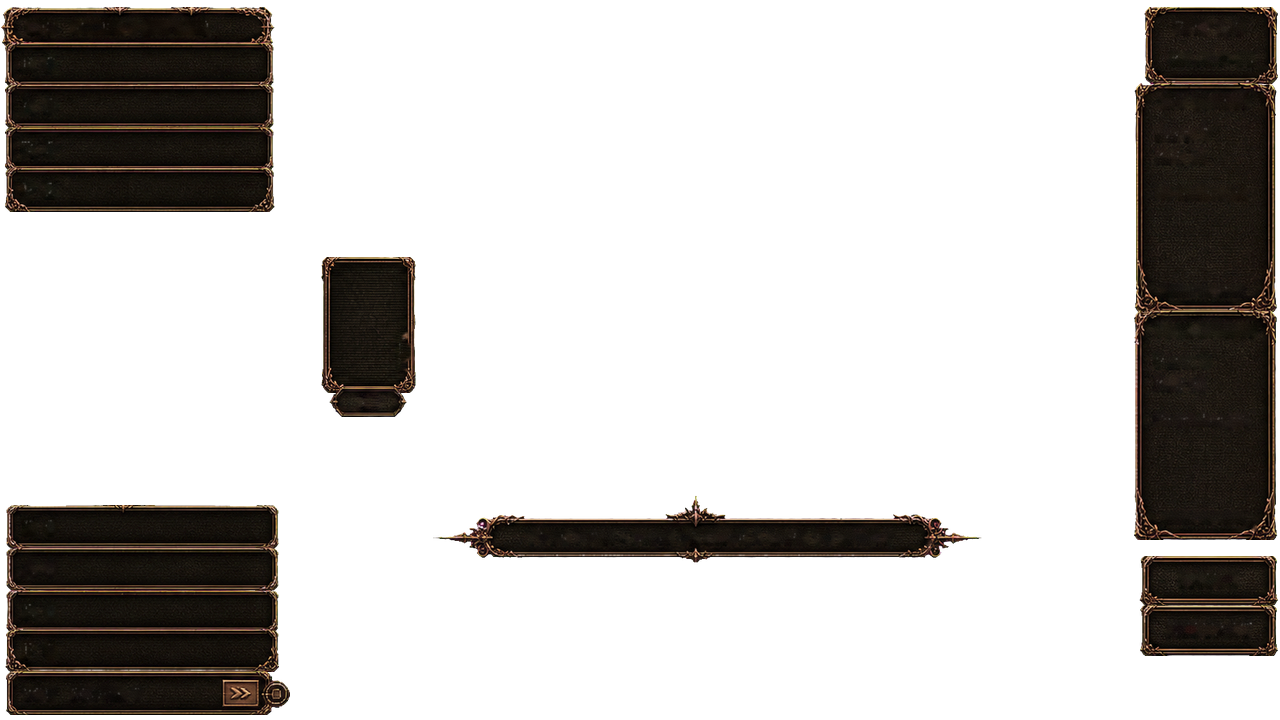
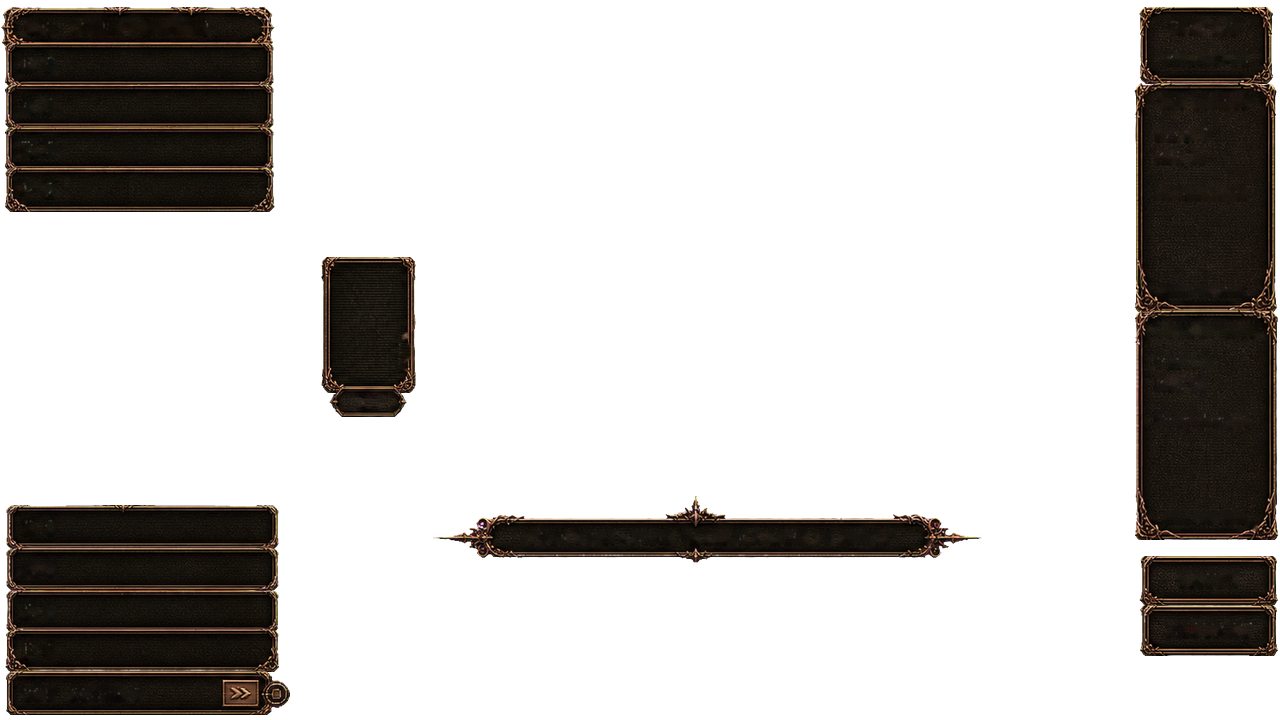
castle: live-test #3 fine-tune - deeper bezel grip, tower centre axis
Owner re-test (tables/table_castle/live-test.md #3):

1. Card still read as sitting ON the bezel: at cavity height ~ card height
   (x0.99) the top/bottom rails overlap the card by <1 px. The card now sits
   IN the sandwich: CASTLE_BEZEL_RATIO 0.99 -> 0.94, so the bronze band lies
   mostly over the card on every side (lip ~5 px at hand size, proportional
   elsewhere) while the frame silhouette stays just proud of the card
   (ratio floor ~0.927). Comparison: preview/castle-bezel-grip.png.
2. RND box still offset right - it was the box, not the text. Outer-right
   placement put the narrower RND cavity's centre ~5 px right of the combo
   panels' axis inside one contiguous tower. The assert record now aligns
   the rnd+combos tower on cavity cx 1205.3 (rnd moves 5.4 px left; combos
   <=0.2 px; buttons keep outer-right - separate island, labels game-centred);
   finals + overlay rebuilt, and the mode lines centre on 1205.3 to match.

Also fixes a stale pass-1 paragraph in the castle README (table_art builds
the manifest now; it no longer refuses it).

Verified: ./build.sh test green, action_guard exit 0, all src/*.c
warning-free vs raylib 5.5 headers; bezel asset byte-identical (code-only
ratio change), overlay regenerated.

diff --git a/src/ui_combos.c b/src/ui_combos.c
@@ -55,17 +55,17 @@ void combos_draw_sidebar(const GameState *g) {
         DrawRectangleRec(mode, COLOR_PANEL_BG);
         ui_draw_panel_border(mode, COLOR_PHOSPHOR_DIM);
     }
-    /* Castle: the mode cavity measures x 1151.7..1269.7 (tables/table_castle/final/
-       _manifest.json, rnd_panel), so text left-aligned at 1168 leaves a wide empty
-       leather margin on its left and reads shifted right - centre the two mode lines
-       on the cavity (cx ~1211) instead. CRT keeps the left-aligned 1168. */
+    /* Castle: the rnd+combos tower's cavities share centre x 1205.3 (tables/
+       table_castle/final/_manifest.json), so text left-aligned at 1168 leaves a wide
+       empty leather margin on its left and reads shifted right - centre the two mode
+       lines on the tower axis instead. CRT keeps the left-aligned 1168. */
     const char *rnd_line = sc_mode ? TextFormat("WAVE %d", speed_mode_wave())
                                    : TextFormat("RND %d/%d", g->current_round, g->total_rounds);
-    label(rnd_line, castle_skin ? label_centered_x(rnd_line, 16, 1211.0f) : 1168,
+    label(rnd_line, castle_skin ? label_centered_x(rnd_line, 16, 1205.3f) : 1168,
           20, 96, 16, COLOR_PHOSPHOR);
     float size = 16;
     while (size > 12 && MeasureTextEx(font_body, mode_name, size, 0.5f).x > 96) size--;
-    label(mode_name, castle_skin ? label_centered_x(mode_name, size, 1211.0f) : 1168,
+    label(mode_name, castle_skin ? label_centered_x(mode_name, size, 1205.3f) : 1168,
           47, 96, size, COLOR_TEXT_INFO);
     for (int p = 1; p >= 0; p--) {
         if (sc_mode && p == 1) continue;

diff --git a/src/ui_board.c b/src/ui_board.c
@@ -752,7 +752,8 @@ void board_draw_card_shimmer(Rectangle dest, float shimmer_val) {
 #define CASTLE_BEZEL_CAV_CX 82.575f    /* cavity centre, bezel texture px */
 #define CASTLE_BEZEL_CAV_CY 128.925f
 #define CASTLE_BEZEL_CAV_H  241.95f
-#define CASTLE_BEZEL_RATIO  0.99f      /* cavity height per card height */
+#define CASTLE_BEZEL_RATIO  0.94f      /* cavity height per card height (<1: the frame grips;
+                                          floor ~0.927 keeps the outer edge outside the card) */
 
 static void board_draw_castle_bezel(const BoardAssets *ba, Rectangle dest) {
     if (s_castle_bezel_muted || !ba->has_table_castle || !board_castle_skin_active()) return;

diff --git a/tables/table_castle/live-test.md b/tables/table_castle/live-test.md
@@ -27,6 +27,29 @@ so they get written down here and become the next forge pass's work list.
 
 ---
 
+### 2026-10-30 · fine-tune #2 (`22a31b4`) · owner live test #3
+
+- **Table id / selector:** `CASTLE (BETA)`, as before.
+- **Tested:** re-test — sandwich bezels on faces, RND box centring from #2.
+- **Worked:** the sandwich construction itself (backs still read correct); the grip was too
+  shallow, see below.
+- **Broke:**
+  1. *Card still sits on top of the bezel* → at cavity height ≈ card height (× 0.99) the
+     top/bottom rails overlap the card by <1 px and the sides by ~3 px, so the frame reads
+     as a border around the card, not holding it → expected: the **card in the sandwich** —
+     bronze visibly in front on every side.
+  2. *RND box still offset right* → it was the box, not its text: outer-right placement
+     puts the narrower RND cavity's centre ~5 px right of the combo panels' axis (left edge
+     ~10 px right of theirs) inside one contiguous tower → expected: one centre axis.
+- **Verdict:** forge again (fine-tune); fixes applied the same day, awaiting re-test.
+- **Next action:** owner re-tests. Fixes: bezel ratio × 0.99 → **× 0.94** (the bronze band
+  now lies mostly over the card — lip ~5 px at hand size, proportional elsewhere — while
+  the silhouette stays just proud of the card; floor ~0.927. Comparison:
+  `preview/castle-bezel-grip.png`); the rnd+combos tower's cavities aligned on **cx 1205.3**
+  in the record (rnd moves 5.4 px left), finals + overlay rebuilt, and the mode lines now
+  centre on that same axis. Buttons keep outer-right placement (separate island, labels
+  game-centred at 1216) — flag if they now read off-axis against the tower.
+
 ### 2026-10-30 · beta port + fine-tune #1 (`85f5a41`) · owner live test #2
 
 - **Table id / selector:** `CASTLE (BETA)`, as before.

diff --git a/tables/table_castle/README.md b/tables/table_castle/README.md
@@ -118,9 +118,9 @@ right column grows left), thin only at the canvas edges.
 | cpu_lane_0..3 | 256.7×34.7–36.7 | 255×37.4 | (−1.7, +0.7..+2.7) | left, centre-y | 7–8/2–5/7–8/3–6 |
 | you_lane_0..3 | 260.7–262.7×32.7–36 | 255×37.4 | (−5.7..−7.7, +1.4..+4.7) | left, centre-y | 6–7/2–5/12/1–4 |
 | you_score | 210.7×34.7 | 255×30 | (+44.3, −4.7) — cavity stops at the art's `>>` button; the score text is short and left-drawn | left, centre-y | 7/5/23/9 |
-| rnd_panel | 118×66.7 | 112×66 | (−6.0, −0.7) | outer-right@1278, top | 16/5/6/7 |
-| cpu_combos | 118×204.7 ×1.065 | 112×218 | (−13.7, 0.0) | outer-right@1278, top | 26/5/6/6 |
-| your_combos | 118.7×203.3 ×1.072 | 112×218 | (−15.3, 0.0) | outer-right@1278, top | 26/6/6/7 |
+| rnd_panel | 118×66.7 | 112×66 | (−6.0, −0.7) | tower cavity-cx@1205.3, top | 21/5/1/7 |
+| cpu_combos | 118×204.7 ×1.065 | 112×218 | (−13.7, 0.0) | tower cavity-cx@1205.3, top | 26/5/6/6 |
+| your_combos | 118.7×203.3 ×1.072 | 112×218 | (−15.3, 0.0) | tower cavity-cx@1205.3, top | 26/6/6/6 |
 | pause / restart | 120.7×36.7 / 121.3×37.3 | 112×40 | (−8.7..−9.3, +2.7..+3.3) | outer-right@1278, centre-y | 21/4–5/6/5–6 |
 | stock_frame | 91.3×146 ×0.849 | 76×124 | (−1.5, 0.0) | cavity on card rect | 9/5/10/7 |
 | stock_plaque | 64×22.7 | count text (356,392) 18 px | — | cavity → (336,390), centred under the deck (368) | 7/3/7/4 |
